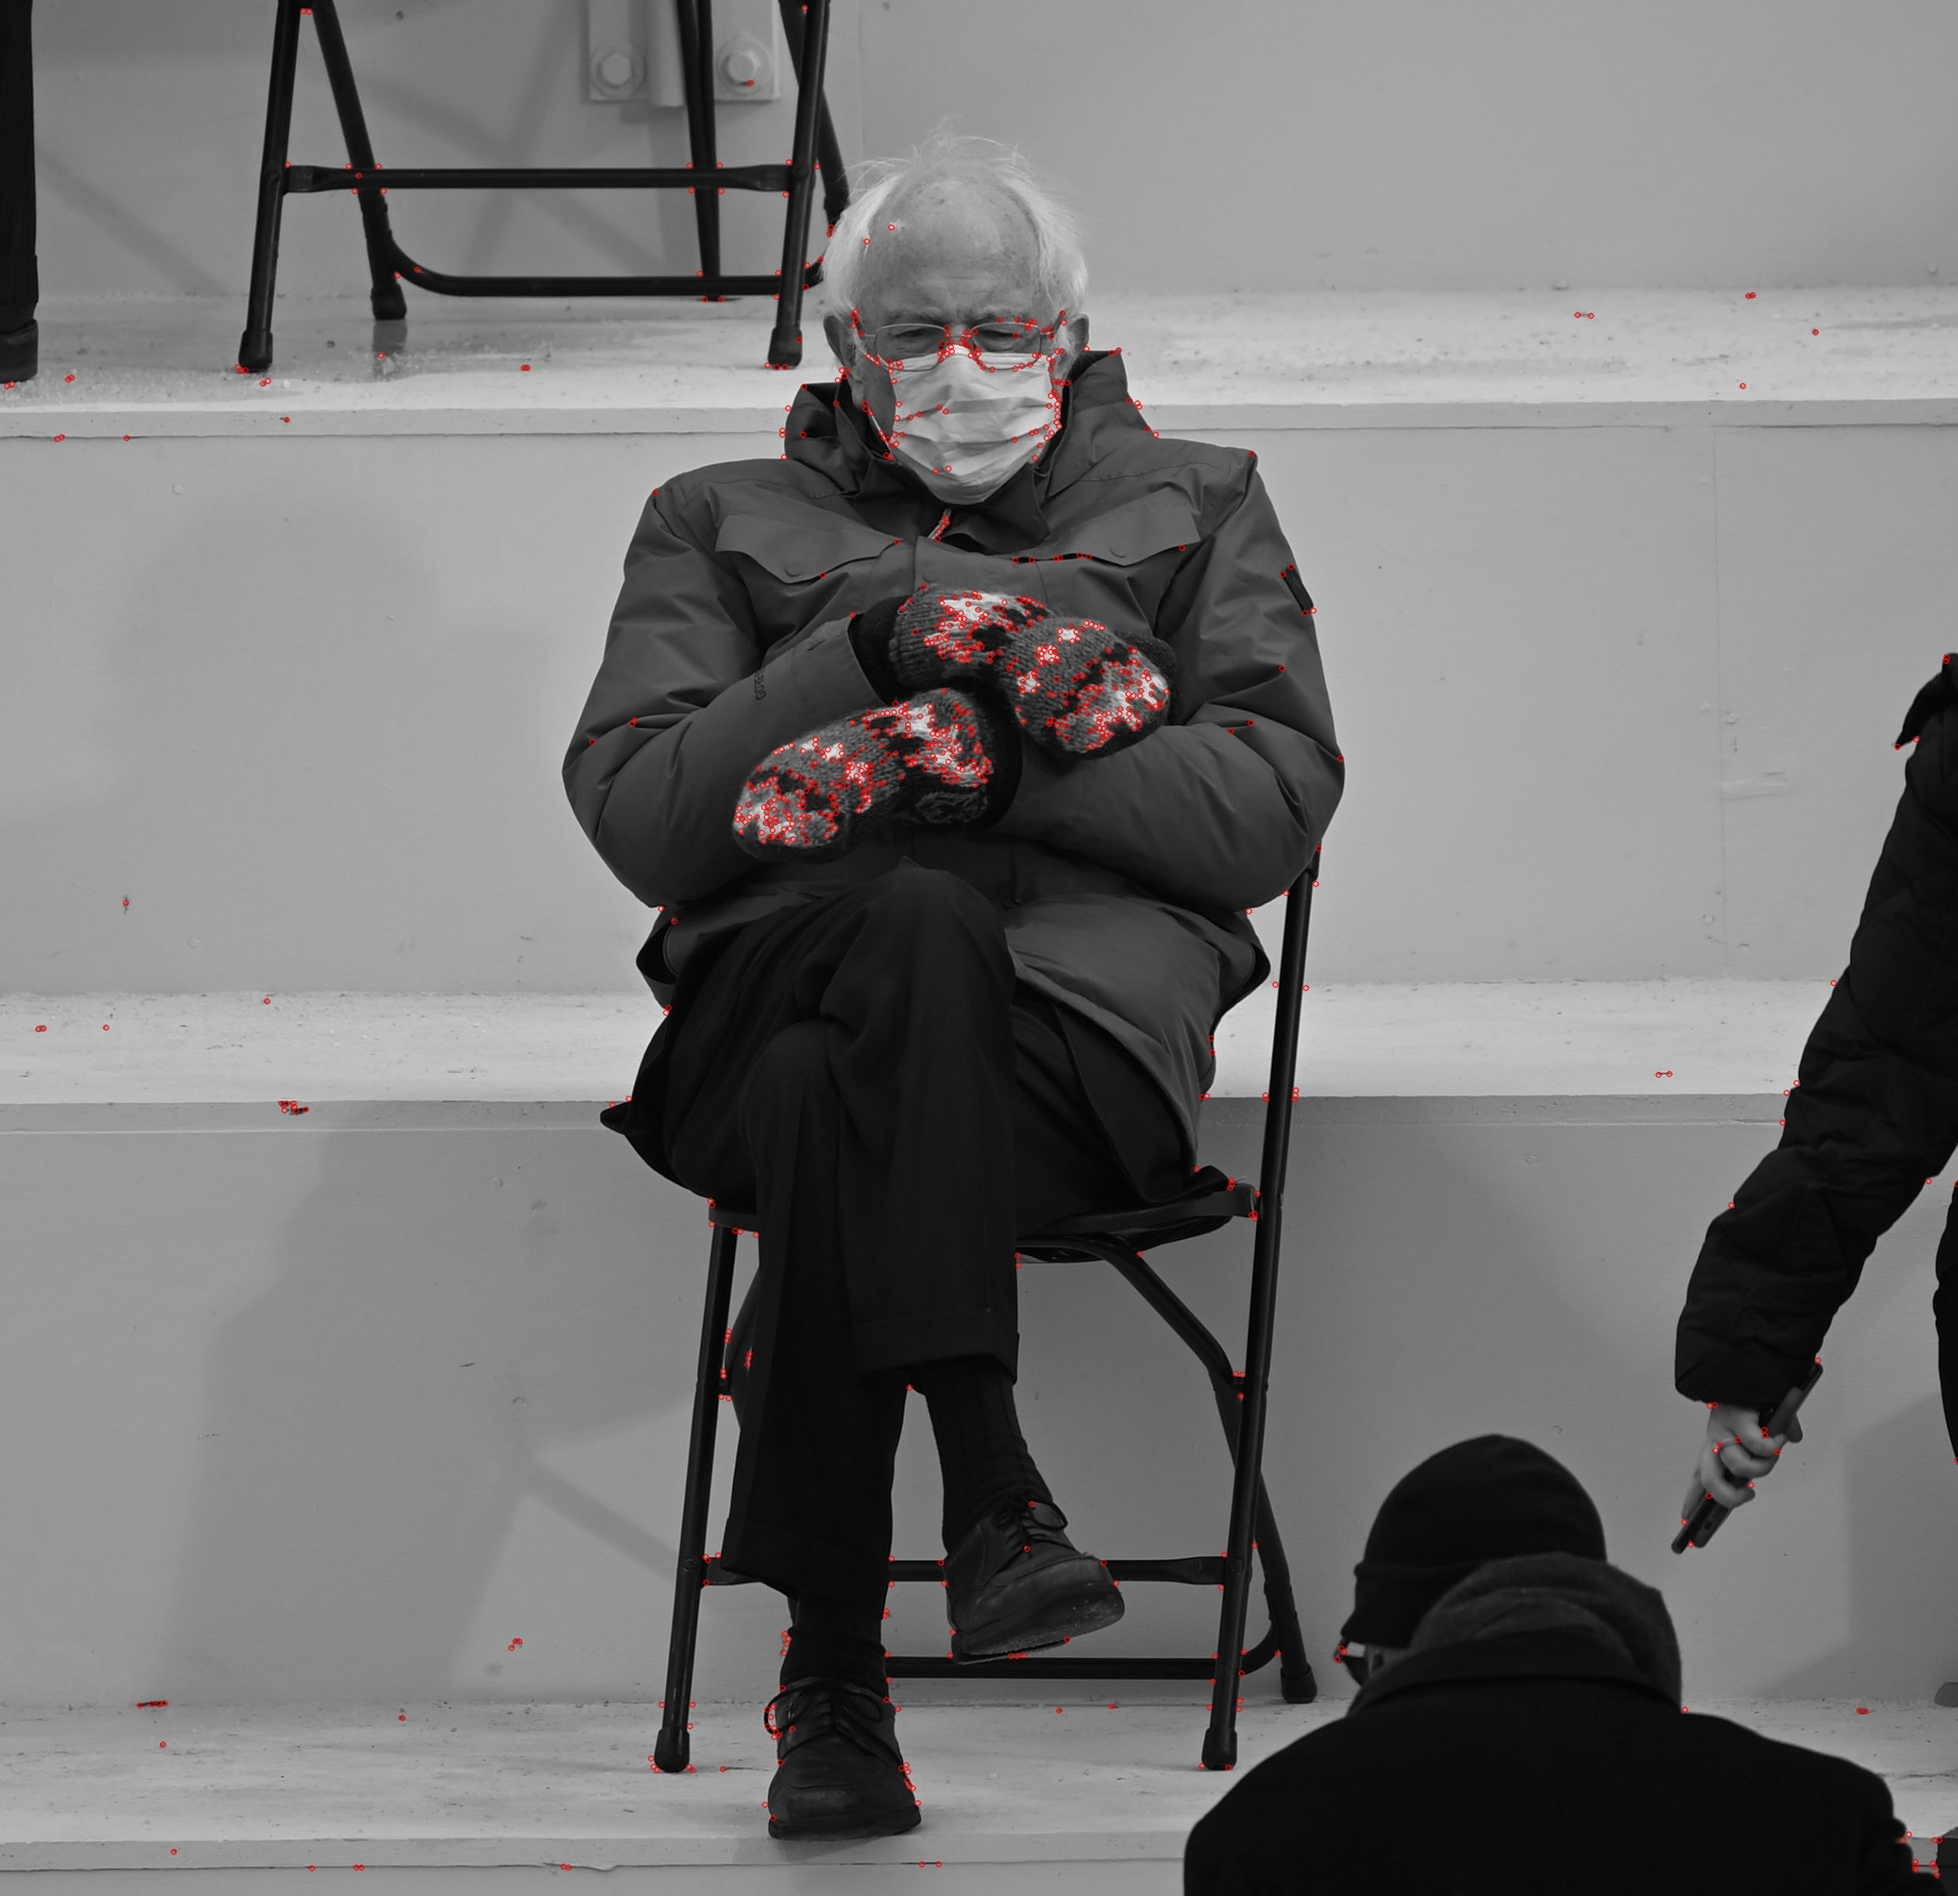
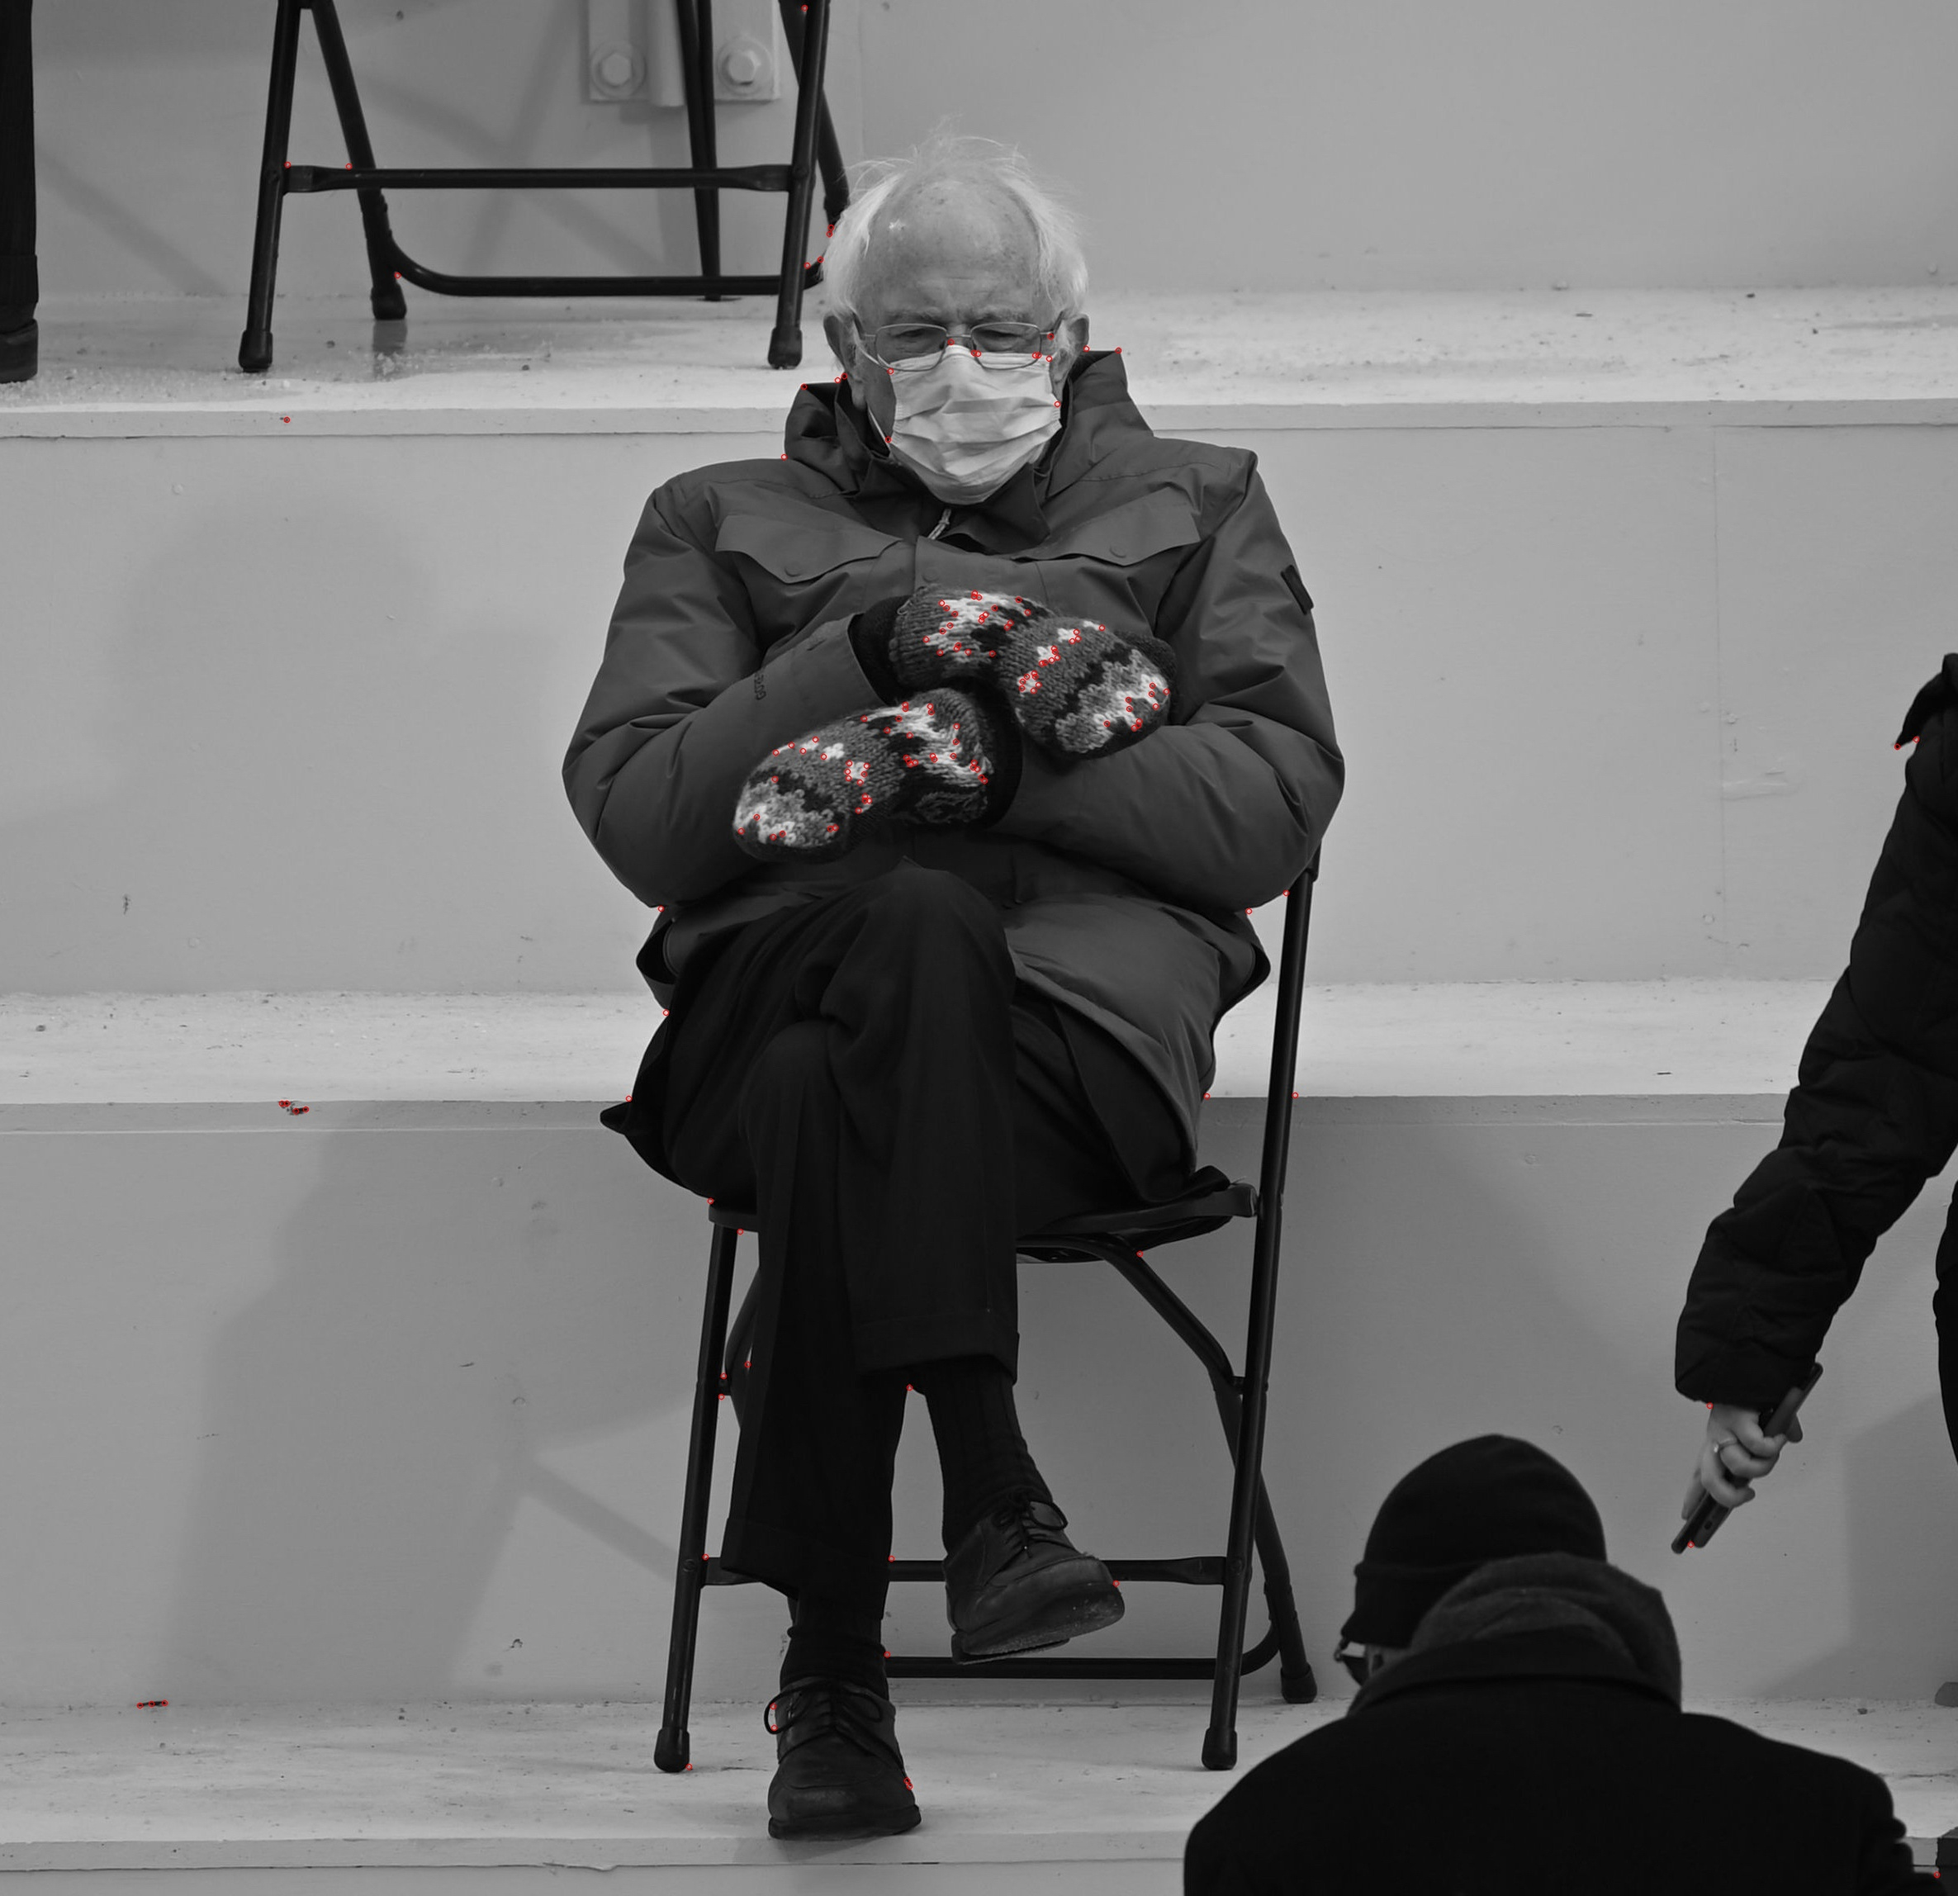
old images removed, errors in code fixed, filename renamed

diff --git a/main.py b/main.py
@@ -1,0 +1,227 @@
+import os
+import sys
+import cv2
+import numpy as np
+import matplotlib.pyplot as plt
+from scipy import ndimage, spatial
+
+INPUT_DIRECTORY = "./COMP37212/"
+OUTPUT_DIRECTORY = "./results/"
+
+#check if results directory exists, if not creates it
+if not os.path.exists(OUTPUT_DIRECTORY):
+    # Create the directory if it doesn't exist
+    os.makedirs(OUTPUT_DIRECTORY)
+
+"""
+image: mat
+- image must be grayscale
+sigma: int
+- for gausian blurring (default value of 0.5)
+alpha: int
+- used for computing the corner strength funtion, R
+threshold: int
+- calcualte the non-maxima supression (optional)
+nms: int
+- window size on both axes (default value of 7)
+"""
+def HarrisPointsDetector(
+        image, sigma=0.5, alpha=0.05, threshold_value= 0.05, nms=7, graph=False
+):
+    # Blur gray image
+    blur_image = ndimage.gaussian_filter(image, sigma=10, mode="reflect", radius=2)
+
+    # Normalize the image to np.float64
+    image_64 = blur_image.astype(np.float64)
+    image_64 = blur_image / 255.0
+
+    # Compute image gradients in X and Y directions; axis = 0 for y derivative, axis = 1 for x derivative
+    x_gradient_64 = ndimage.sobel(image_64, axis=1, mode="reflect")
+    y_gradient_64 = ndimage.sobel(image_64, axis=0, mode="reflect")
+
+    # Compute the combinations between the gradients
+    orientations = np.rad2deg(np.arctan2(y_gradient_64, x_gradient_64))
+
+    # Compute the cominations between the gradients for M Matrix: (I_x)^2, (I_y)^2, (I_x)(I_y)
+    x2_gradient_64 = np.square(x_gradient_64)
+    y2_gradient_64 = np.square(y_gradient_64)
+    xy_gradient_64 = np.multiply(x_gradient_64, y_gradient_64)
+
+    # Blur the combinations between the gradients
+    blur_x2_gradient_64 = ndimage.gaussian_filter(x2_gradient_64, sigma=sigma, mode="reflect", radius=2)
+    blur_y2_gradient_64 = ndimage.gaussian_filter(y2_gradient_64, sigma=sigma, mode="reflect", radius=2)
+    blur_xy_gradient_64 = ndimage.gaussian_filter(xy_gradient_64, sigma=sigma, mode="reflect", radius=2)
+
+    # Compute the 2x2 M Matrix Determinant and Trace 
+    determinant = np.subtract( np.multiply(blur_x2_gradient_64, blur_y2_gradient_64), np.square(blur_xy_gradient_64))
+    trace = np.add(x2_gradient_64, y2_gradient_64)
+
+    # Compute the corner strength function, 𝑅
+    r = determinant - (alpha * np.square(trace))
+
+    maxes = ndimage.maximum_filter(r, size=nms, cval=1e100)
+    r_maxes = maxes == r
+    rows, cols = image_64.shape
+
+    # Loop through all feature points in r_maxes, where each poiont is filled with content required for descriptor computation
+    # requires x, y, and angle
+    features = []
+    for y in range(rows):
+        for x in range(cols):
+            if not r_maxes[y, x]:
+                continue
+
+            f = cv2.KeyPoint(x, y, 7, orientations[y][x], r[y][x])
+            features.append(f)
+    
+    """ Graph production when graph flag is true
+    graph showing relation between number of keypoints and threshold value
+    """
+    if graph:
+        thresholds = [0.01 * i for i in range(1, 20)]
+        no_kps = [0] * len(thresholds)
+
+        for i in range(len(thresholds)):
+            threshold = np.max(r) * thresholds[i]
+            if features is not None:
+                keypoints = [ keypoint for keypoint in features if keypoint.response >= threshold
+                ]
+                no_kps[i] = len(keypoints)
+
+        plt.plot(thresholds, no_kps)
+        plt.xlabel("Thresholds")
+        plt.ylabel("Number of Keypoints")
+        plt.title("Thresholds vs Number of Keypoints")
+        plt.savefig("./threshold_vs_keypoints.jpg")
+    
+    # Find the threshold
+    # If the response value of the keypoint is greater than threshold, return the keypoint, else don't
+    threshold = np.max(r) * threshold_value
+    if features is not None:
+        keypoints = [ keypoint for keypoint in features if keypoint.response >= threshold
+        ]
+
+    return keypoints
+
+def featureDescriptor(image, keypoints):
+    _, descriptor = orb.compute(image, keypoints)
+
+    return descriptor
+
+"""
+Calculate squared Euclidean distance between the two feature vectors
+and matches a feature in the first inage with the closest features in the second image
+
+NOTE: There is possibility of having the same multiple features from the first image with the second image
+"""
+def SSDFeatureMatcher(ref_desc, sample_desc):
+    distances = spatial.distance.cdist(ref_desc, sample_desc, 'sqeuclidean')
+    matches = []
+    for i, dist in enumerate(distances):
+        idx1 = i
+        idx2 = np.argmin(dist)
+        distance = dist[idx2]
+        matches.append(cv2.DMatch(idx1, idx2, 0, distance))
+    return matches
+
+"""
+Uses a ratior of SSD distance of the two best matches and 
+matches a feature in the first image with the cloeset feature in the second image.
+
+NOTE: There is possibility of having the same multiple features from the first image with the second image
+"""
+def RatioFeatureMatcher(ref_desc, sample_desc, ratio=0.75):
+
+    distances = spatial.distance.cdist(ref_desc, sample_desc, 'sqeuclidean')
+    matches = []
+    for i, dist in enumerate(distances):
+        idx1 = i
+        sorted_indices = np.argsort(dist)
+        best_match_dist = dist[sorted_indices[0]]
+        second_best_match_dist = dist[sorted_indices[1]]
+        if best_match_dist < ratio * second_best_match_dist:
+            idx2 = sorted_indices[0]
+            matches.append(cv2.DMatch(idx1, idx2, 0, best_match_dist))
+    return matches
+
+if __name__ == "__main__":
+    # Open beernieSanders.jpg as reference image 
+    reference_image = cv2.imread("bernieSanders.jpg", cv2.IMREAD_COLOR)
+
+    # Check if the reference image exists
+    if reference_image is None:
+        print("Error: Failed to open the required image (bernieSanders.jpg")
+        sys.exit(1)
+
+    # Begin: Convert the colored referenced image to gray
+    reference_gray_image = cv2.cvtColor(reference_image, cv2.COLOR_BGR2GRAY)
+
+    ## ORB Built in Points Detector ##
+    # Initialize ORB object
+    orb = cv2.ORB_create(scoreType=cv2.ORB_HARRIS_SCORE)
+    # Find interest points using OpenCV corner detector
+    orb_kps= orb.detect(reference_image, None)
+    # Compute the descriptors with ORB interest points
+    orb_kps, orb_desc = orb.compute(reference_image, orb_kps)
+    # Draw keypoints
+    gray_kps = cv2.drawKeypoints(reference_gray_image,orb_kps, None, color=(0, 0, 255), flags=0)
+
+    ## End: ORB Built in Points Detector ##
+
+    # Output image for comparison discussion in report
+    cv2.imwrite(OUTPUT_DIRECTORY + "orb_built_in_features.jpg", gray_kps.astype(np.uint8))
+
+
+    ## Begin: Own Harris Points Detector Implementation ##
+    harris_ref_kps = HarrisPointsDetector(reference_gray_image, graph=True)
+    harris_ref_image = cv2.drawKeypoints( reference_gray_image, harris_ref_kps, None, color=(0, 0, 255), flags=0)
+
+    # Find descriptor using the keypoints from own Harris Points Detector
+    harris_ref_desc = featureDescriptor(reference_gray_image, harris_ref_kps)
+
+    ## End: Own Harris Points Detector Implementation ##
+
+    # Output image for comparison discussion in report
+    cv2.imwrite(OUTPUT_DIRECTORY + "harris_implementation_features.jpg", harris_ref_image.astype(np.uint8))
+
+    # Loop through all images in the input directory to find keypoints and match
+    for file in os.listdir(INPUT_DIRECTORY):
+        if file == ".DS_Store":
+            continue
+
+        # Open image
+        image_sample = cv2.imread(INPUT_DIRECTORY + file, cv2.IMREAD_COLOR)
+
+        # Convert image to gray
+        image_sample_gray = cv2.cvtColor(image_sample, cv2.COLOR_BGR2GRAY)
+
+        if "benieMoreblurred" in file:
+            harris_sample_kps = HarrisPointsDetector(image_sample_gray)
+        else: 
+            harris_sample_kps = HarrisPointsDetector(image_sample_gray)
+        
+        # Draw keypoints
+        harris_sample_image = cv2.drawKeypoints( image_sample_gray, harris_sample_kps, None, color=(0, 0, 255), flags=0)
+        harris_sample_desc = featureDescriptor(image_sample_gray, harris_sample_kps)
+
+        ## Find matching feature using SSDFeatureMatcher ##
+        ssd_matches = sorted( SSDFeatureMatcher(harris_ref_desc, harris_sample_desc), key=lambda x: x.distance, )
+        ssd_img_match = cv2.drawMatches(
+            harris_ref_image, harris_ref_kps, harris_sample_image, harris_sample_kps, ssd_matches, None, flags=2,
+        )
+
+        name = file.split(".")[0] + "_ssd_harris_matches.jpg"
+        cv2.imwrite(OUTPUT_DIRECTORY + name, ssd_img_match)
+
+
+        ## Find matching feature using RatioFeatureMatcher ##
+        rf_matches = sorted( RatioFeatureMatcher(harris_ref_desc, harris_sample_desc), key=lambda x: x.distance, )
+        rf_img_match = cv2.drawMatches(
+            harris_ref_image, harris_ref_kps, harris_sample_image, harris_sample_kps, rf_matches, None, flags=2,
+        )
+
+        name = file.split(".")[0] + "_rf_harris_matches.jpg"
+        cv2.imwrite(OUTPUT_DIRECTORY + name, rf_img_match)
+
+            
+
